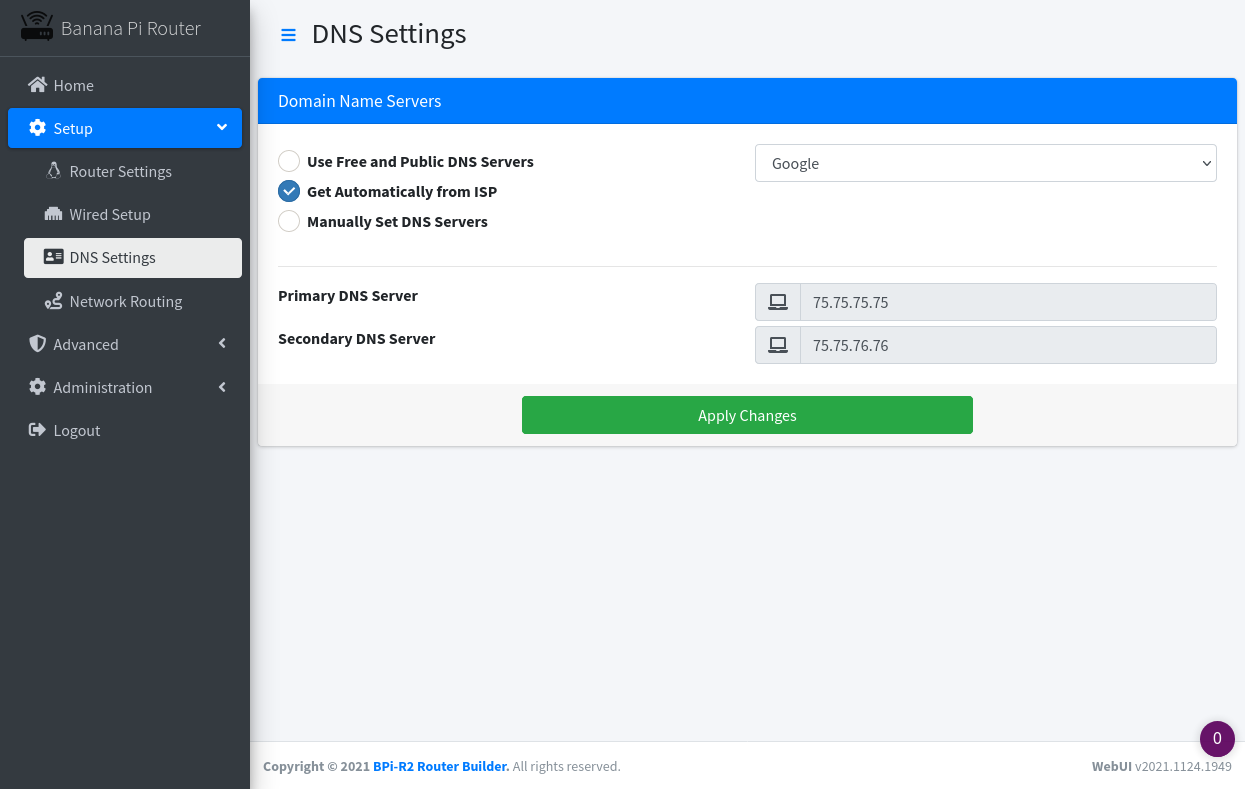
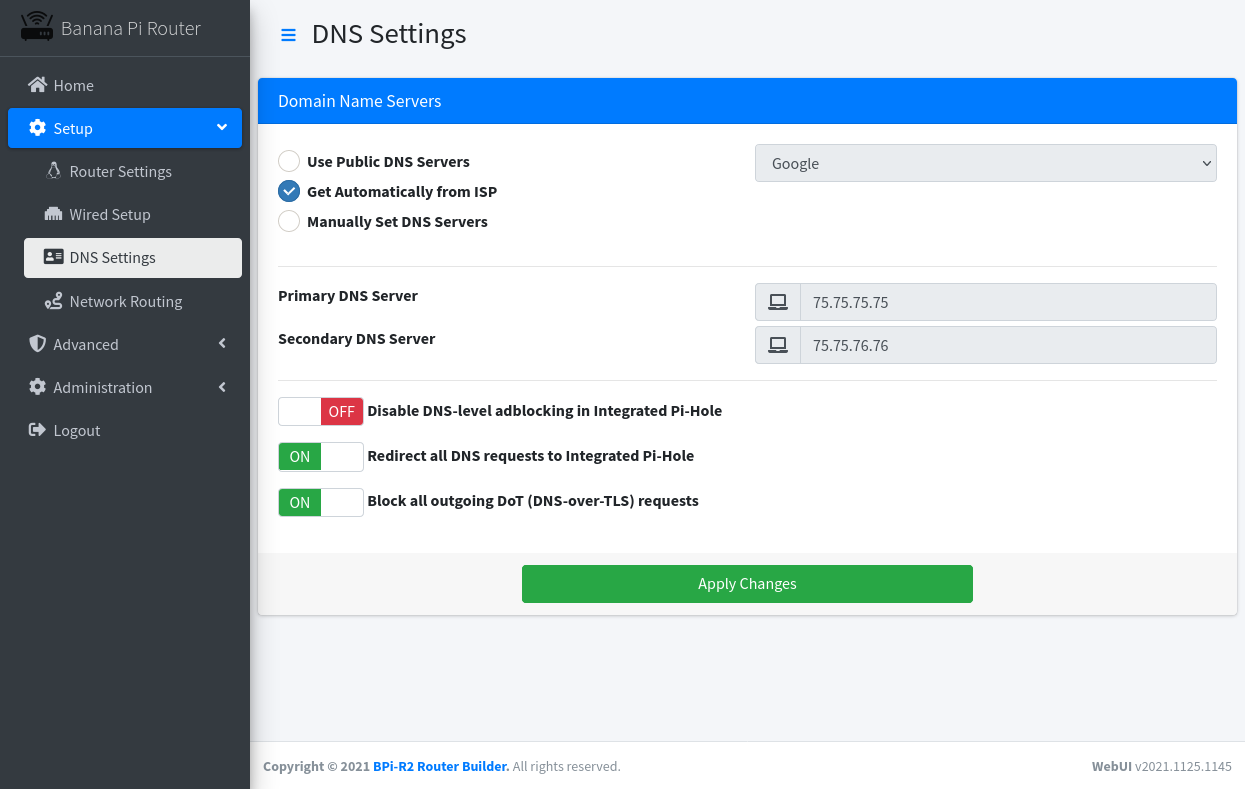
Updated WebUI Setup / DNS

diff --git a/router/js/site-setup.js b/router/js/site-setup.js
@@ -6,6 +6,7 @@ var reboot_suggested = false;
 //======================================================================================================
 function Init_DNS(dns1, dns2)
 {
+	$(".checkbox").bootstrapSwitch();
 	$('.dns_address').inputmask("ip");
 	$("#dns_isp").click(function() {
 		$(".dns_address").attr("disabled", "disabled");
@@ -33,11 +34,14 @@ function DNS_Submit()
 {
 	// Assemble the post data for the AJAX call:
 	postdata = {
-		'sid':      SID,
-		'action':   'dns',
-		'use_isp':  ($("[name=dns_server_opt]:checked").val()) == "isp" ? 'Y' : 'N',
-		'dns1':     $("#dns1").val(),
-		'dns2':     $("#dns2").val(),
+		'sid':       SID,
+		'action':    'dns',
+		'use_isp':   ($("[name=dns_server_opt]:checked").val()) == "isp" ? 'Y' : 'N',
+		'dns1':      $("#dns1").val(),
+		'dns2':      $("#dns2").val(),
+		'redirect':  $("#redirect_dns").prop("checked") ? "Y" : "N",
+		'block_dot': $("#block_dot").prop("checked") ? "Y" : "N",
+		'disable':   $("#disable_pihole").prop("checked") ? "Y" : "N",
 	};
 	//alert(JSON.stringify(postdata, null, 5)); return;
 

diff --git a/router/includes/setup-dns.php b/router/includes/setup-dns.php
@@ -1,5 +1,7 @@
 <?php
 require_once("subs/admin.php");
+require_once("subs/advanced.php");
+$options = parse_file();
 site_menu();
 $wan = parse_ifconfig('wan');
 #echo '<pre>'; print_r($wan); exit();
@@ -111,6 +113,10 @@ echo '
 				</div>
 			</div>
 		</div>
+		<hr />
+		', checkbox("disable_pihole", "Disable DNS-level adblocking in Integrated Pi-Hole", false), '
+		', checkbox("redirect_dns", "Redirect all DNS requests to Integrated Pi-Hole"), '
+		', checkbox("block_dot", "Block all outgoing DoT (DNS-over-TLS) requests"), '
 	</div>';
 
 ###################################################################################################

diff --git a/router/includes/ajax-setup-settings.php b/router/includes/ajax-setup-settings.php
@@ -42,9 +42,12 @@ else if ($_POST['action'] == 'set')
 #################################################################################################
 else if ($_POST['action'] == 'dns')
 {
-	$use_isp = option('use_isp');
-	$dns1 = option_ip('dns1');
-	$dns2 = option_ip('dns2', true);
+	$use_isp   = option('use_isp');
+	$dns1      = option_ip('dns1');
+	$dns2      = option_ip('dns2', true);
+	$redirect  = option('redirect_dns');
+	$block_dot = option('block_dot');
+	$disable   = option('disable');
 	die("GOT HERE");
 }
 #################################################################################################

diff --git a/router/includes/ajax-advanced.php b/router/includes/ajax-advanced.php
@@ -18,7 +18,6 @@ if ($_POST['action'] == 'firewall')
 	$options['drop_ping']      = option('drop_ping');
 	$options['drop_ident']     = option('drop_ident');
 	$options['drop_multicast'] = option('drop_multicast');
-	$options['redirect_dns']   = option('redirect_dns');
 	#echo '<pre>'; print_r($options); exit;
 	apply_file();
 }
